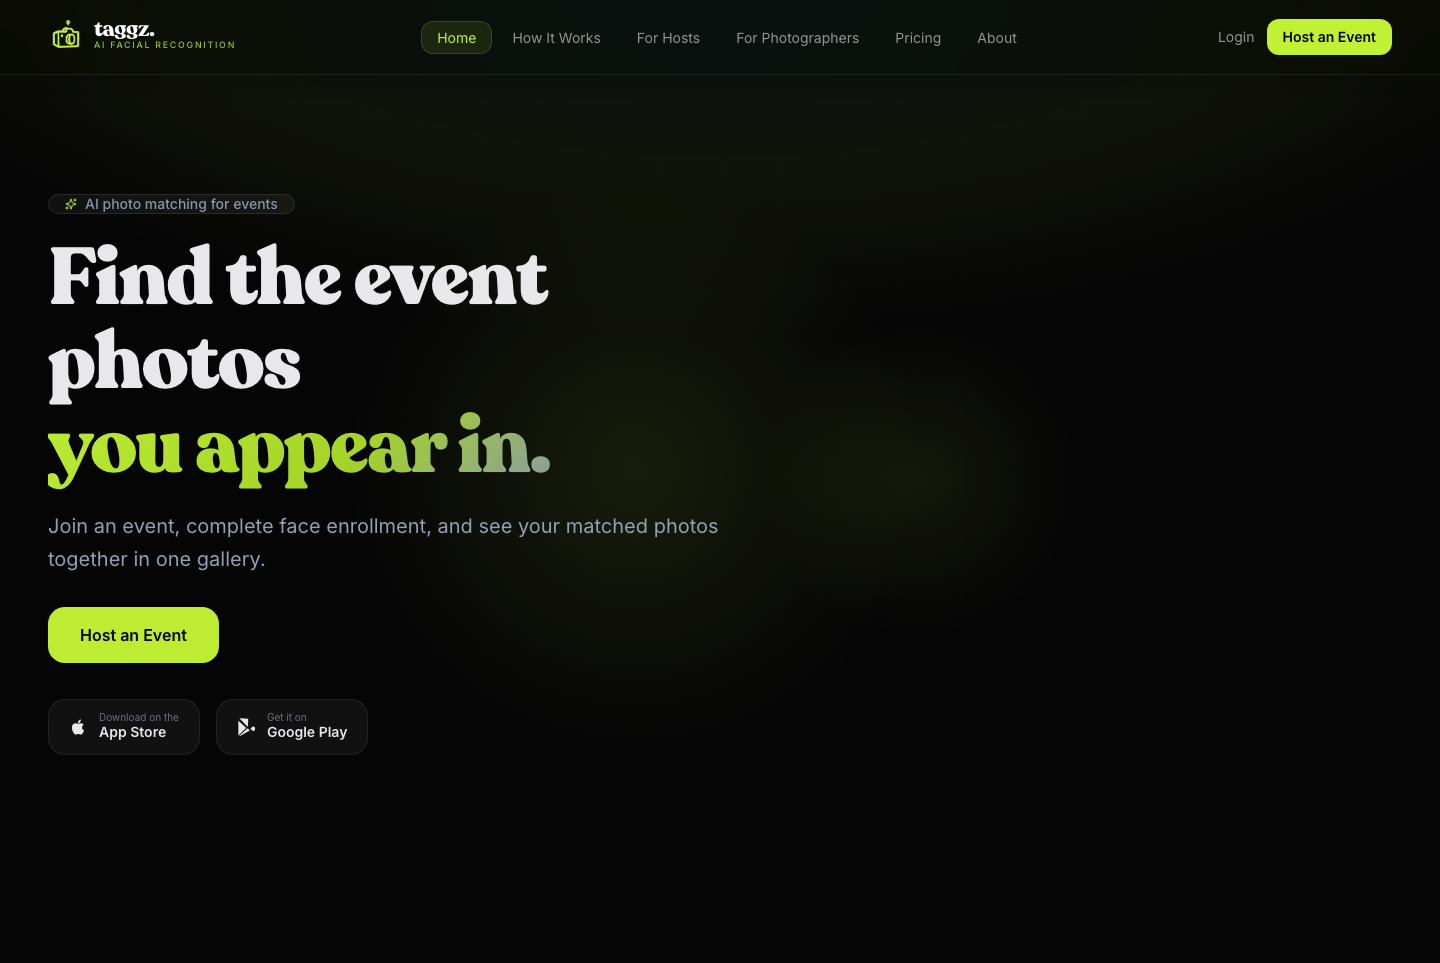
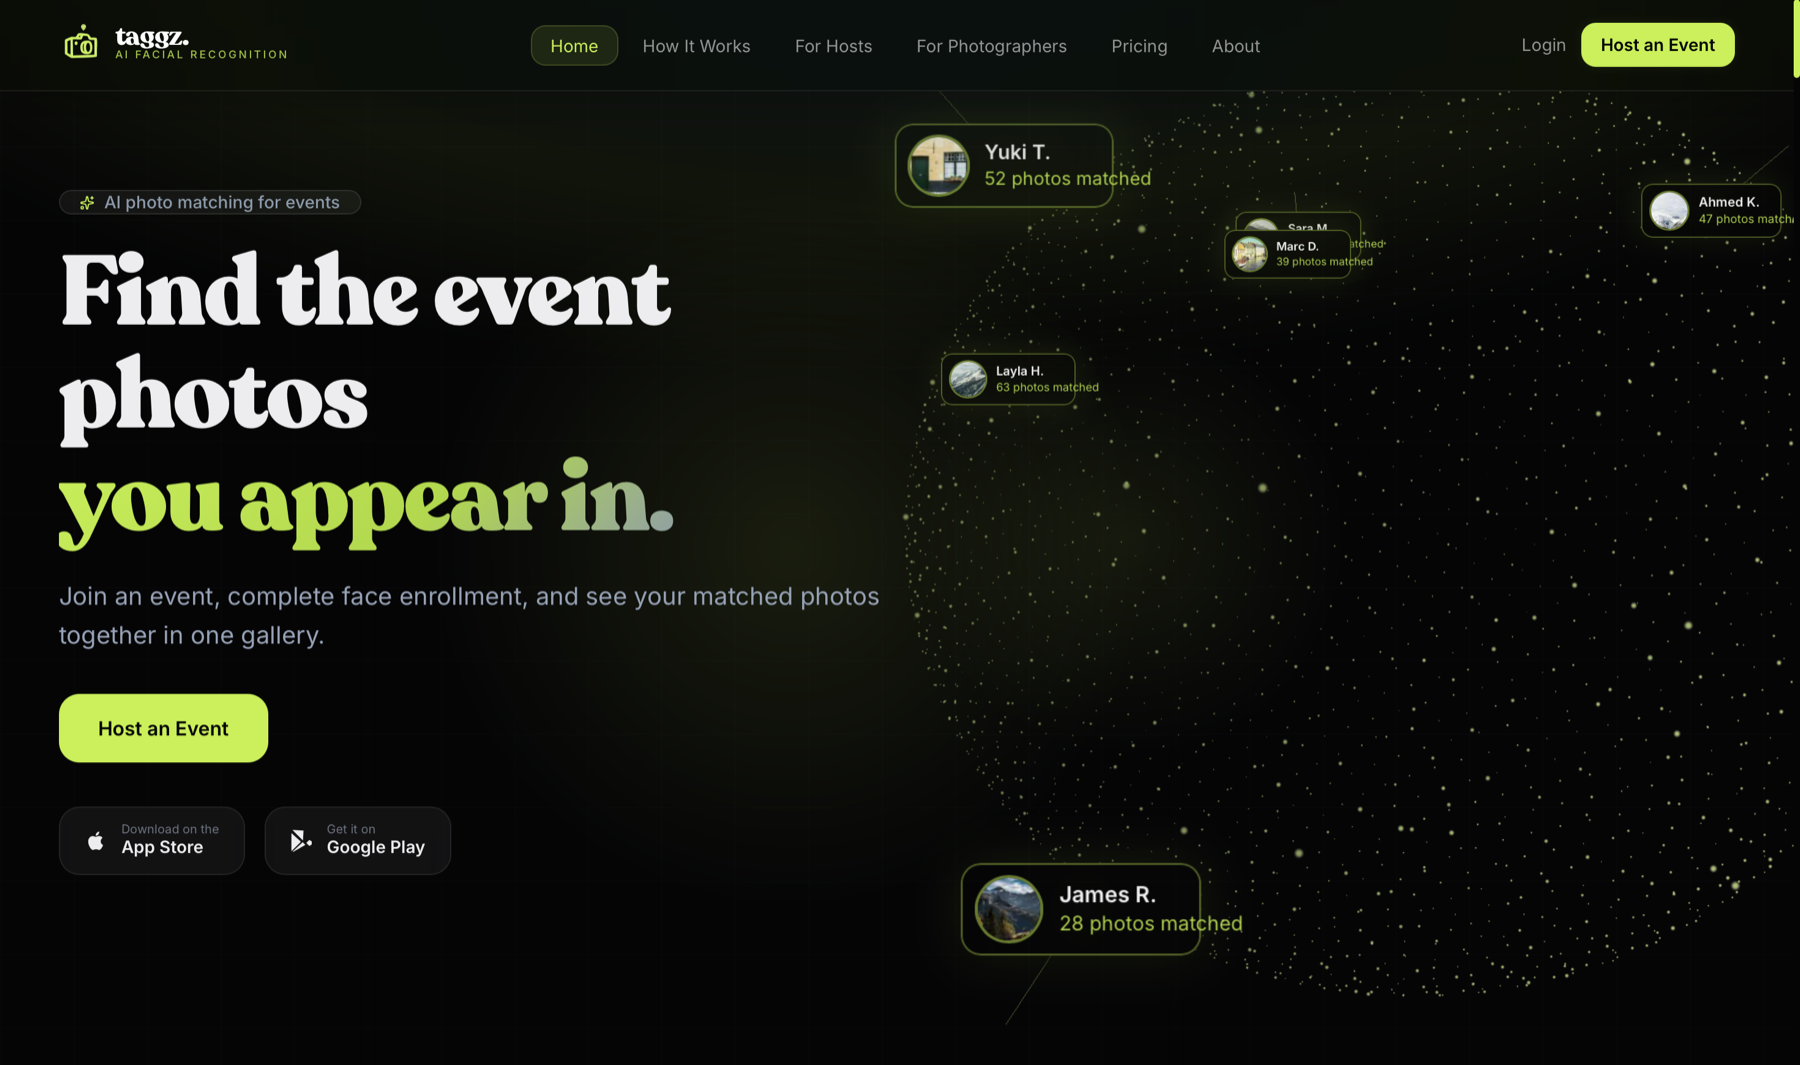
Polish project image presentation

diff --git a/src/components/site/ProjectMedia.tsx b/src/components/site/ProjectMedia.tsx
@@ -1,4 +1,4 @@
-import { useMemo, useState, type ReactNode } from "react";
+import { useState, type ReactNode } from "react";
 
 import { useI18n } from "@/lib/i18n";
 
@@ -9,29 +9,35 @@ function ProjectShot({
   src,
   alt,
   eager = false,
+  fit = "cover",
 }: {
   src: string;
   alt: string;
   eager?: boolean;
+  fit?: "cover" | "contain";
 }) {
-  const [portrait, setPortrait] = useState(false);
-
   return (
     <div className="absolute inset-0 bg-[#030409]">
-      <div className="absolute inset-0 flex items-center justify-center p-3 md:p-4">
+      {fit === "contain" ? (
+        <img
+          src={src}
+          alt=""
+          aria-hidden="true"
+          className="absolute inset-0 h-full w-full scale-105 object-cover opacity-35 blur-2xl"
+          loading="lazy"
+        />
+      ) : null}
+      <div className="absolute inset-0 bg-black/20" />
+      <div className="relative flex h-full items-center justify-center p-3 md:p-5">
         <img
           src={src}
           alt={alt}
           className={
-            portrait
-              ? "h-auto w-auto max-h-[86%] max-w-[min(72vw,18rem)] rounded-[1.25rem] object-contain md:max-w-[min(28vw,18rem)]"
+            fit === "contain"
+              ? "max-h-full max-w-full rounded-[1rem] object-contain shadow-[0_24px_70px_-36px_rgba(0,0,0,0.9)]"
               : "h-full w-full object-cover"
           }
           loading={eager ? "eager" : "lazy"}
-          onLoad={(event) => {
-            const target = event.currentTarget;
-            setPortrait(target.naturalHeight > target.naturalWidth);
-          }}
         />
       </div>
     </div>
@@ -70,10 +76,7 @@ export function ProjectMediaFrame({
 
 export function ProjectHeroBanner({ item, visual }: { item: WorkItem; visual: ReactNode }) {
   const { t } = useI18n();
-  const heroImages = useMemo(
-    () => Array.from(new Set(item.images.filter(Boolean).slice(0, 3))),
-    [item.images],
-  );
+  const heroImage = item.thumbnail || item.images[0];
 
   return (
     <ProjectMediaFrame
@@ -81,28 +84,14 @@ export function ProjectHeroBanner({ item, visual }: { item: WorkItem; visual: Re
       caption={item.title}
       className="shadow-[0_30px_110px_-72px_rgba(0,0,0,0.75)]"
     >
-      {heroImages.length ? (
-        <div
-          className={`absolute inset-0 grid gap-3 p-3 md:p-4 ${
-            heroImages.length === 1
-              ? "grid-cols-1"
-              : heroImages.length === 2
-                ? "grid-cols-1 md:grid-cols-2"
-                : "grid-cols-1 md:grid-cols-3"
-          }`}
-        >
-          {heroImages.map((image, index) => (
-            <div
-              key={image}
-              className="relative overflow-hidden rounded-[1.5rem] border border-white/10 bg-black/20"
-            >
-              <ProjectShot
-                src={image}
-                alt={`${item.title} ${t("project.media.alt")} ${index + 1}`}
-                eager={index === 0}
-              />
-            </div>
-          ))}
+      {heroImage ? (
+        <div className="absolute inset-0">
+          <ProjectShot
+            src={heroImage}
+            alt={`${item.title} ${t("project.media.alt")}`}
+            eager
+            fit="contain"
+          />
         </div>
       ) : (
         <div className="absolute inset-0">{visual}</div>
@@ -135,23 +124,64 @@ export function ProjectHeroBanner({ item, visual }: { item: WorkItem; visual: Re
 export function ProjectGallery({ item }: { item: WorkItem }) {
   const { t } = useI18n();
   const imageItems = item.images.filter(Boolean).slice(0, 3);
+  const [selectedIndex, setSelectedIndex] = useState(0);
 
   if (!imageItems.length) {
     return null;
   }
 
+  const selectedImage = imageItems[selectedIndex] ?? imageItems[0];
+  const getImageLabel = (index: number) =>
+    item.imageLabels?.[index] ?? `${t("project.media.image")} ${index + 1}`;
+
   return (
-    <div className="grid gap-4">
-      {imageItems.map((image, index) => (
-        <ProjectMediaFrame
-          key={`${image}-${index}`}
-          label={`${t("project.media.image")} ${index + 1}`}
-          caption={item.title}
-          className="shadow-none"
-        >
-          <ProjectShot src={image} alt={`${item.title} ${t("project.media.alt")} ${index + 1}`} />
-        </ProjectMediaFrame>
-      ))}
+    <div className="grid gap-3">
+      <ProjectMediaFrame
+        label={`${getImageLabel(selectedIndex)} · ${selectedIndex + 1}/${imageItems.length}`}
+        caption={item.title}
+        className="shadow-none"
+      >
+        <ProjectShot
+          src={selectedImage}
+          alt={`${item.title} ${t("project.media.alt")} ${selectedIndex + 1}`}
+          eager={selectedIndex === 0}
+          fit="contain"
+        />
+      </ProjectMediaFrame>
+      {imageItems.length > 1 ? (
+        <div className="flex gap-3 overflow-x-auto pb-1">
+          {imageItems.map((image, index) => {
+            const active = index === selectedIndex;
+            const label = getImageLabel(index);
+
+            return (
+              <button
+                key={`${image}-${index}`}
+                type="button"
+                aria-label={`${t("project.media.image")} ${label}`}
+                aria-pressed={active}
+                onClick={() => setSelectedIndex(index)}
+                className={`group min-w-28 overflow-hidden rounded-xl text-left ring-1 transition-[transform,background-color,box-shadow] duration-150 ease-[cubic-bezier(0.23,1,0.32,1)] active:scale-[0.97] sm:min-w-36 ${
+                  active
+                    ? "bg-[var(--card)] text-[var(--ink)] ring-[var(--primary)] shadow-[0_10px_30px_-20px_rgba(115,136,223,0.9)]"
+                    : "bg-[var(--surface)] text-[var(--muted-foreground)] ring-[var(--hairline)] hover:-translate-y-0.5 hover:text-[var(--ink)]"
+                }`}
+              >
+                <span className="block aspect-[4/3] overflow-hidden bg-[#030409]">
+                  <img
+                    src={image}
+                    alt=""
+                    aria-hidden="true"
+                    className="h-full w-full object-cover transition-transform duration-200 ease-[cubic-bezier(0.23,1,0.32,1)] group-hover:scale-[1.03]"
+                    loading="lazy"
+                  />
+                </span>
+                <span className="block truncate px-3 py-2 text-[11px] font-medium">{label}</span>
+              </button>
+            );
+          })}
+        </div>
+      ) : null}
     </div>
   );
 }

diff --git a/src/components/site/workData.ts b/src/components/site/workData.ts
@@ -49,6 +49,7 @@ export type WorkItem = {
   banner?: string;
   bannerFamily?: WorkBannerFamily;
   images: string[];
+  imageLabels?: string[];
   stack: string[];
   sections?: WorkSection[];
   detailSections: WorkSection[];
@@ -309,6 +310,7 @@ const portfolioProjects = [
       "/work-images/forsa-logistics-light.png",
       "/work-images/forsa-logistics-full.jpg",
     ],
+    imageLabels: ["Dark mode", "Light mode", "Full page"],
     stack: ["Next.js", "TypeScript", "Responsive UI", "English / Arabic"],
     sections: [
       {
@@ -400,6 +402,7 @@ const portfolioProjects = [
       "A full-stack AI event photography platform with a Laravel API backend and a Next.js admin dashboard for events, media workflows, payments, analytics, moderation, and permissions.",
     thumbnail: "/work-images/taggz.webp",
     images: ["/work-images/taggz.webp"],
+    imageLabels: ["Mobile app"],
     stack: [
       "Laravel 13",
       "PHP 8.3",
@@ -534,6 +537,7 @@ const portfolioProjects = [
       "A product website for Taggz that explains the event photo workflow for guests, hosts, and photographers in one connected experience.",
     thumbnail: "/work-images/taggz-website.png",
     images: ["/work-images/taggz-website.png"],
+    imageLabels: ["Safari capture"],
     stack: ["Next.js", "React", "TypeScript", "Responsive UI"],
     sections: [
       {
